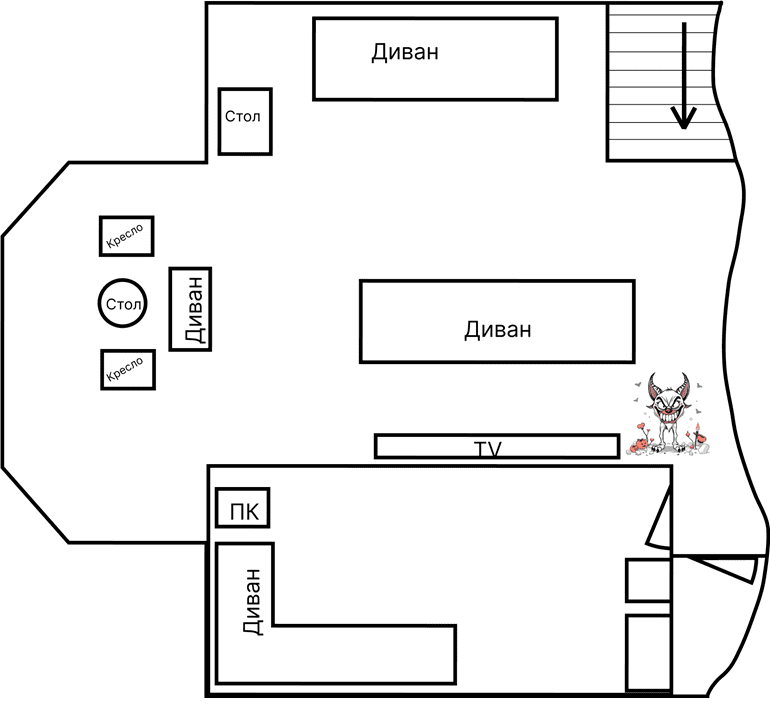
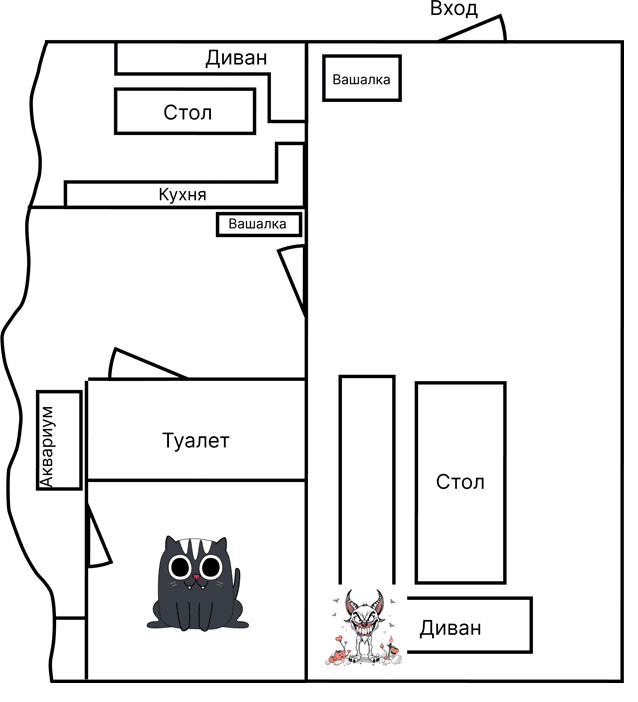
add sound

Changed region(s): [[0.0, 0.0, 1.0, 0.9872], [0.0298, 0.0598, 0.0893, 0.2094]]

diff --git a/src/components/componentsAll/ContentBox.jsx b/src/components/componentsAll/ContentBox.jsx
@@ -1,7 +1,8 @@
 import Doctor from '../../pictures/Doctor.png';
 import Box from '../../pictures/Box.png';
 import { useNavigate } from "react-router-dom"
-
+import useSound from 'use-sound'; 
+import OpenBox from '../../sound/OpenBox.mp3'
 
 const ContentBox = () => {
   let navigate = useNavigate();
@@ -11,13 +12,14 @@ const ContentBox = () => {
                '5', '1','3', '45', '6',
                '1', '2','41', '5','99']
 
-  
+  const [playSoundhitHeroes] = useSound(OpenBox);
   const click = () => {
     const arr1 = [];
     for (let index = 0; index < arr.length; index++) {
       arr1.push(document.getElementById(index+1)?.value)
     }
     if(JSON.stringify(arr) === JSON.stringify(arr1)){
+      playSoundhitHeroes()
       navigate('/72')
       } else {
         for (let index = 0; index < arr.length; index++) {
